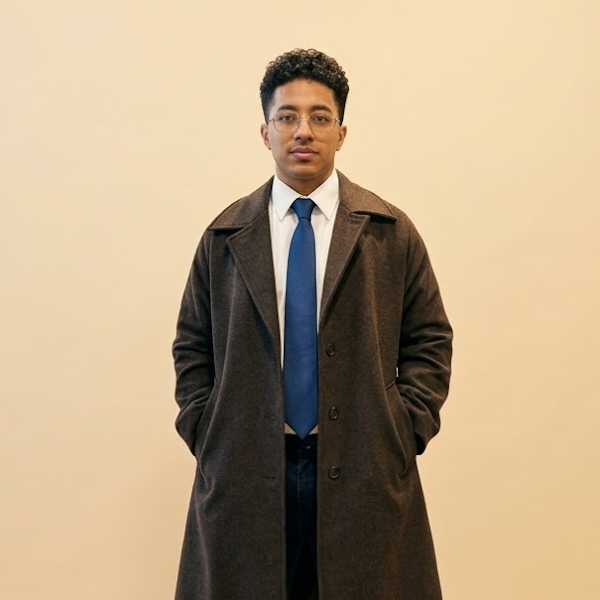
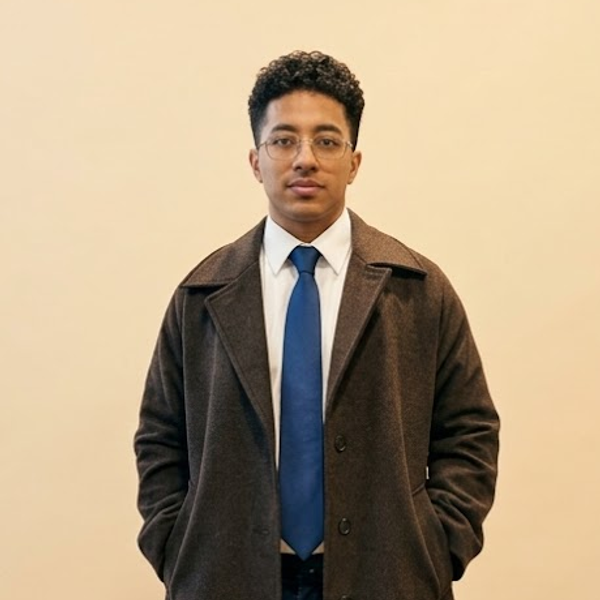
Refine close-up executive portrait framing of Bibek Lama in Hero section

Changed region(s): [[0.21, 0.06, 0.84, 1.0]]

diff --git a/src/components/Hero.tsx b/src/components/Hero.tsx
@@ -75,14 +75,14 @@ export function Hero() {
         >
           {/* Executive Portrait & Active Status */}
           <div className="relative mb-7">
-            <div className="relative w-32 h-32 sm:w-40 sm:h-40 md:w-44 md:h-44 rounded-3xl sm:rounded-[32px] p-1.5 bg-gradient-to-tr from-cyan-400 via-indigo-500 to-purple-500 shadow-2xl shadow-indigo-500/30 group">
-              <div className="w-full h-full rounded-[22px] sm:rounded-[26px] bg-neutral-900 border border-white/20 relative overflow-hidden backdrop-blur-xl">
+            <div className="relative w-36 h-36 sm:w-44 sm:h-44 md:w-48 md:h-48 rounded-3xl sm:rounded-[36px] p-1.5 bg-gradient-to-tr from-cyan-400 via-indigo-500 to-purple-500 shadow-2xl shadow-indigo-500/30 group">
+              <div className="w-full h-full rounded-[22px] sm:rounded-[30px] bg-neutral-900 border border-white/20 relative overflow-hidden backdrop-blur-xl">
                 <img
                   src="/bibek-portrait.png"
                   alt="Bibek Lama Tamang - Business Architect, Project Leader & Founder"
                   className="w-full h-full object-cover object-top filter brightness-[1.02] contrast-[1.02] group-hover:scale-105 transition-transform duration-500"
                 />
-                <div className="absolute inset-x-0 bottom-0 h-12 bg-gradient-to-t from-neutral-950/70 via-neutral-950/20 to-transparent pointer-events-none" />
+                <div className="absolute inset-x-0 bottom-0 h-10 bg-gradient-to-t from-neutral-950/60 to-transparent pointer-events-none" />
               </div>
             </div>
             {/* Live Indicator Badge */}
